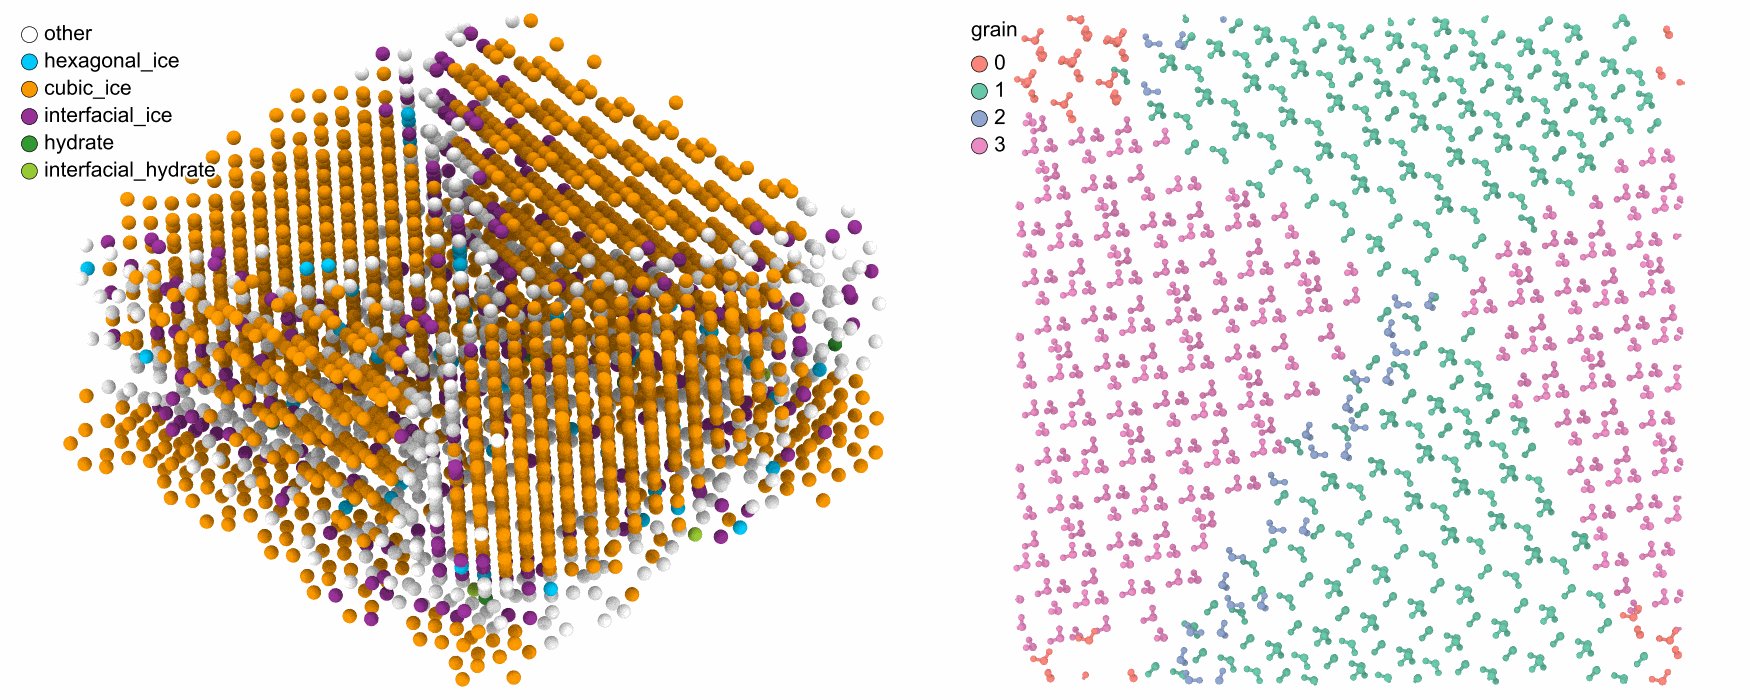
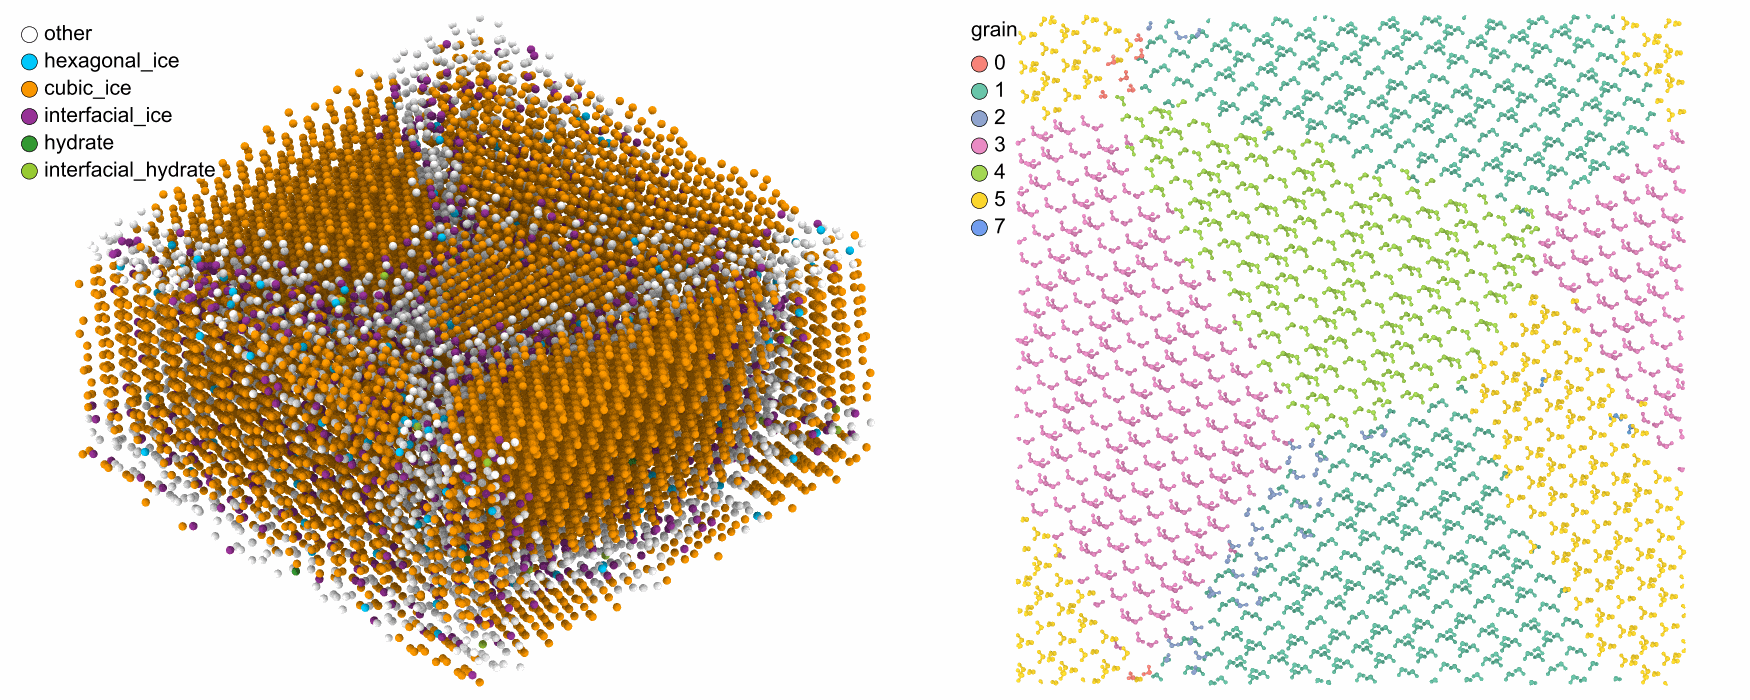
The example of a molecular polycrystal in a larger box

diff --git a/docs/examples/molecular-polycrystal.md b/docs/examples/molecular-polycrystal.md
@@ -46,12 +46,12 @@ A file without molecules gets them from [`ChemicalSpecies`](../user-guide/analys
 
 The call is the same as for atoms. No two atoms of different molecules stay closer than
 `min_distance`. Its default is 0.7 times the nearest distance between molecules in the unit,
-here 1.25 Å. At 1.75 Å, just under the 1.79 Å of a hydrogen bond in the crystal, no two
+here 1.25 Å. At 1.78 Å, just under the 1.79 Å of a hydrogen bond in the crystal, no two
 molecules are left within the reach of a chemical bond:
 
 ```python
-ice = build_polycrystal(unit, mp.Box(60.0), 4, min_distance=1.75, seed=3)
-ice["molecule"].max(), len(ice)  # 6353 molecules, 19059 atoms
+ice = build_polycrystal(unit, mp.Box(100.0), 8, min_distance=1.78, seed=3)
+ice["molecule"].max(), len(ice)  # 29805 molecules, 89415 atoms
 ```
 
 ## Are the molecules whole?
@@ -62,7 +62,7 @@ alone, without the `molecule` column:
 ```python
 from mdapy.analysis import ChemicalSpecies
 
-ChemicalSpecies().compute(ice).counts()  # H2O 6353, and nothing else
+ChemicalSpecies().compute(ice).counts()  # H2O 29805, and nothing else
 ```
 
 The bonds and the angles follow the molecules, and the `image` column tells how to put together
@@ -79,11 +79,11 @@ from mdapy.visualization import render, write_png
 
 water = ice.filter(element="O")
 chill = ChillPlus(cutoff=3.5).compute(water)
-chill.counts()  # {'other': 1632, 'cubic_ice': 3982, 'interfacial_ice': 603, ...}
+chill.counts()  # {'other': 6196, 'cubic_ice': 20883, 'interfacial_ice': 2291, ...}
 ```
 
 ```python
-half = water["positions.z"] < 30.0
+half = water["positions.z"] < 50.0
 structures = render(
     water,
     atoms=half,
@@ -94,7 +94,7 @@ structures = render(
     legend=True,
 )
 # a slab of whole molecules, chosen by their oxygen atoms
-middle = (water["positions.z"] > 28.0) & (water["positions.z"] < 34.0)
+middle = (water["positions.z"] > 48.0) & (water["positions.z"] < 54.0)
 slab = np.isin(ice["molecule"], water["molecule"][middle])
 molecules = render(
     ice,
